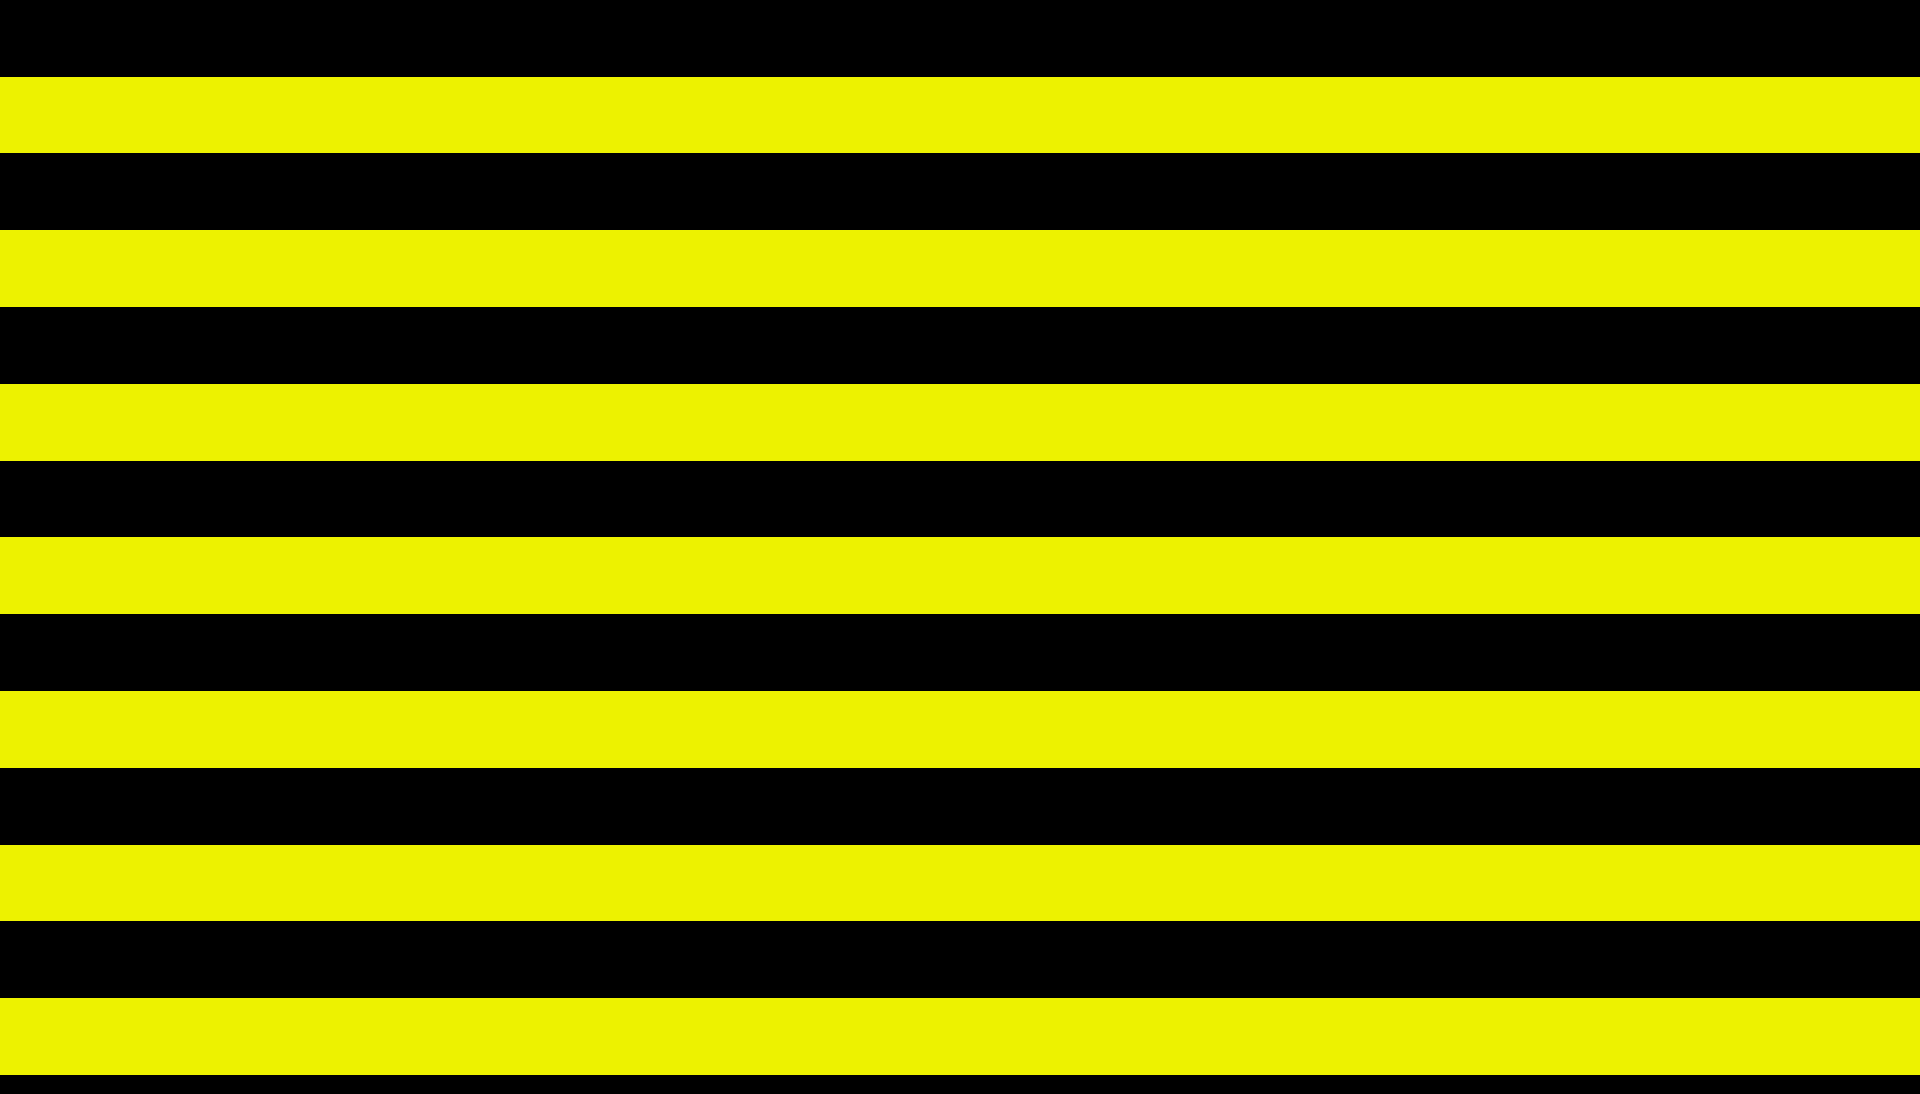
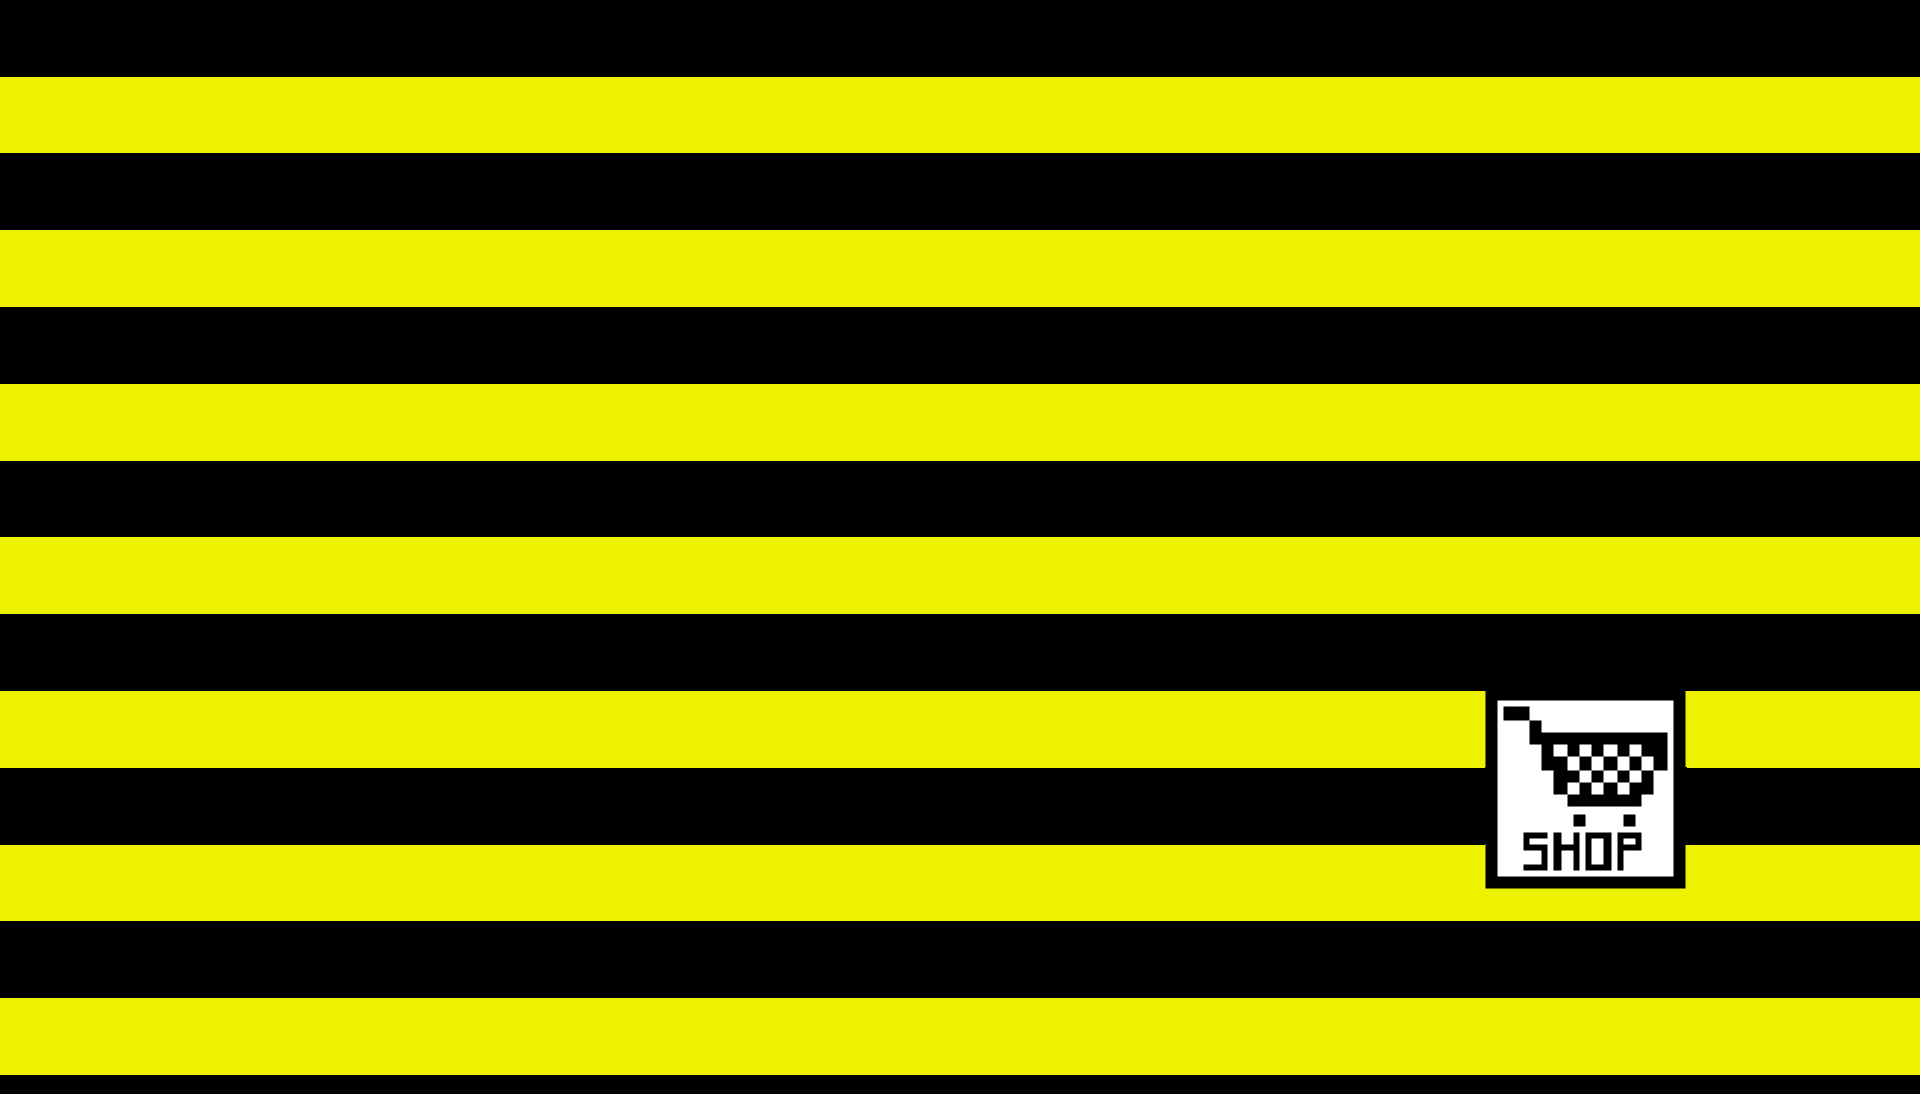
Add 'DLC' menu

Changed region(s): [[0.75, 0.6216, 0.875, 0.8391]]

diff --git a/src/main.c b/src/main.c
@@ -135,6 +135,13 @@ text_t **menu_event(sfRenderWindow *window, sfEvent event, text_t **text, sprite
 		if (sfKeyboard_isKeyPressed(sfKeyReturn) && sprite[5]->o_sprt == 0 &&
 		    text[2]->pos.y == 375 + 77)
 			sprite[5]->o_sprt = 1;
+		if (sfKeyboard_isKeyPressed(sfKeyS))
+			sprite[5]->o_sprt = 5;
+		if (event.mouseButton.x >= 1480 &&
+		    event.mouseButton.x <= 1680 &&
+		    event.mouseButton.y >= 690 &&
+		    event.mouseButton.y <= 890)
+			sprite[5]->o_sprt = 5;
 	}
 	return (text);
 }
@@ -171,6 +178,8 @@ sprite_t **initialize_sprite(sprite_t **sprite)
 	sprite[3] = malloc(sizeof(sprite_t) * 5);
 	sprite[4] = malloc(sizeof(sprite_t) * 5);
 	sprite[5] = malloc(sizeof(sprite_t) * 5);
+	sprite[6] = malloc(sizeof(sprite_t) * 5);
+	sprite[6] = create_sprite(sprite[6], "rsrc/pictures/dlc.png");
 	sprite[5] = create_sprite(sprite[5], "rsrc/pictures/pause.png");
 	sprite[4] = create_sprite(sprite[4], "rsrc/pictures/minimap_perso.png");
 	sprite[3] = create_sprite(sprite[3], "rsrc/pictures/minimap.png");
@@ -192,6 +201,28 @@ void disp_text(sfRenderWindow *window, text_t **text)
 	sfRenderWindow_drawText(window, text[2]->text, NULL);
 }
 
+void dlc_event(sfRenderWindow *window, sfEvent event, sprite_t **sprite)
+{
+	while (sfRenderWindow_pollEvent(window, &event)) {
+		if (event.type == sfEvtClosed)
+			sfRenderWindow_close(window);
+		if (event.type != sfEvtKeyPressed)
+			return;
+		if (sfKeyboard_isKeyPressed(sfKeyQ))
+			sfRenderWindow_close(window);
+		if (sfKeyboard_isKeyPressed(sfKeyEscape))
+			sprite[5]->o_sprt = 0;
+	}
+}
+void dlc_loop(sfRenderWindow *window, sprite_t **sprite)
+{
+	sfEvent event;
+
+	dlc_event(window, event, sprite);
+	sfRenderWindow_drawSprite(window, sprite[6]->s_sprt, NULL);
+	sfRenderWindow_display(window);
+}
+
 void pause_event(sfRenderWindow *window, sfEvent event, sprite_t **sprite)
 {
 	while (sfRenderWindow_pollEvent(window, &event)) {
@@ -202,8 +233,8 @@ void pause_event(sfRenderWindow *window, sfEvent event, sprite_t **sprite)
 		if (sfKeyboard_isKeyPressed(sfKeyQ))
 			sfRenderWindow_close(window);
 		if (sfKeyboard_isKeyPressed(sfKeyP) ||
-			sfKeyboard_isKeyPressed(sfKeyEscape) ||
-			sfKeyboard_isKeyPressed(sfKeyR))
+		    sfKeyboard_isKeyPressed(sfKeyEscape) ||
+		    sfKeyboard_isKeyPressed(sfKeyR))
 			sprite[5]->o_sprt = 1;
 	}
 }
@@ -251,7 +282,7 @@ void menu_loop(sfRenderWindow *window)
 	text_t **text = malloc(sizeof(text_t *) * 5);
 	sprite_t *bg = malloc(sizeof(sprite_t));
 	sfEvent event;
-	sprite_t **sprite = malloc(sizeof(sprite_t *) * 6);
+	sprite_t **sprite = malloc(sizeof(sprite_t *) * 8);
 	char **map_txt = get_map_txt();
 
 	sprite = initialize_sprite(sprite);
@@ -266,6 +297,8 @@ void menu_loop(sfRenderWindow *window)
 			sfRenderWindow_display(window);
 		} else if (sprite[5]->o_sprt == 3) {
 			pause_loop(window, sprite);
+		} else if (sprite[5]->o_sprt == 5) {
+			dlc_loop(window, sprite);
 		} else {
 			game_loop(window, sprite, map_txt);
 		}
